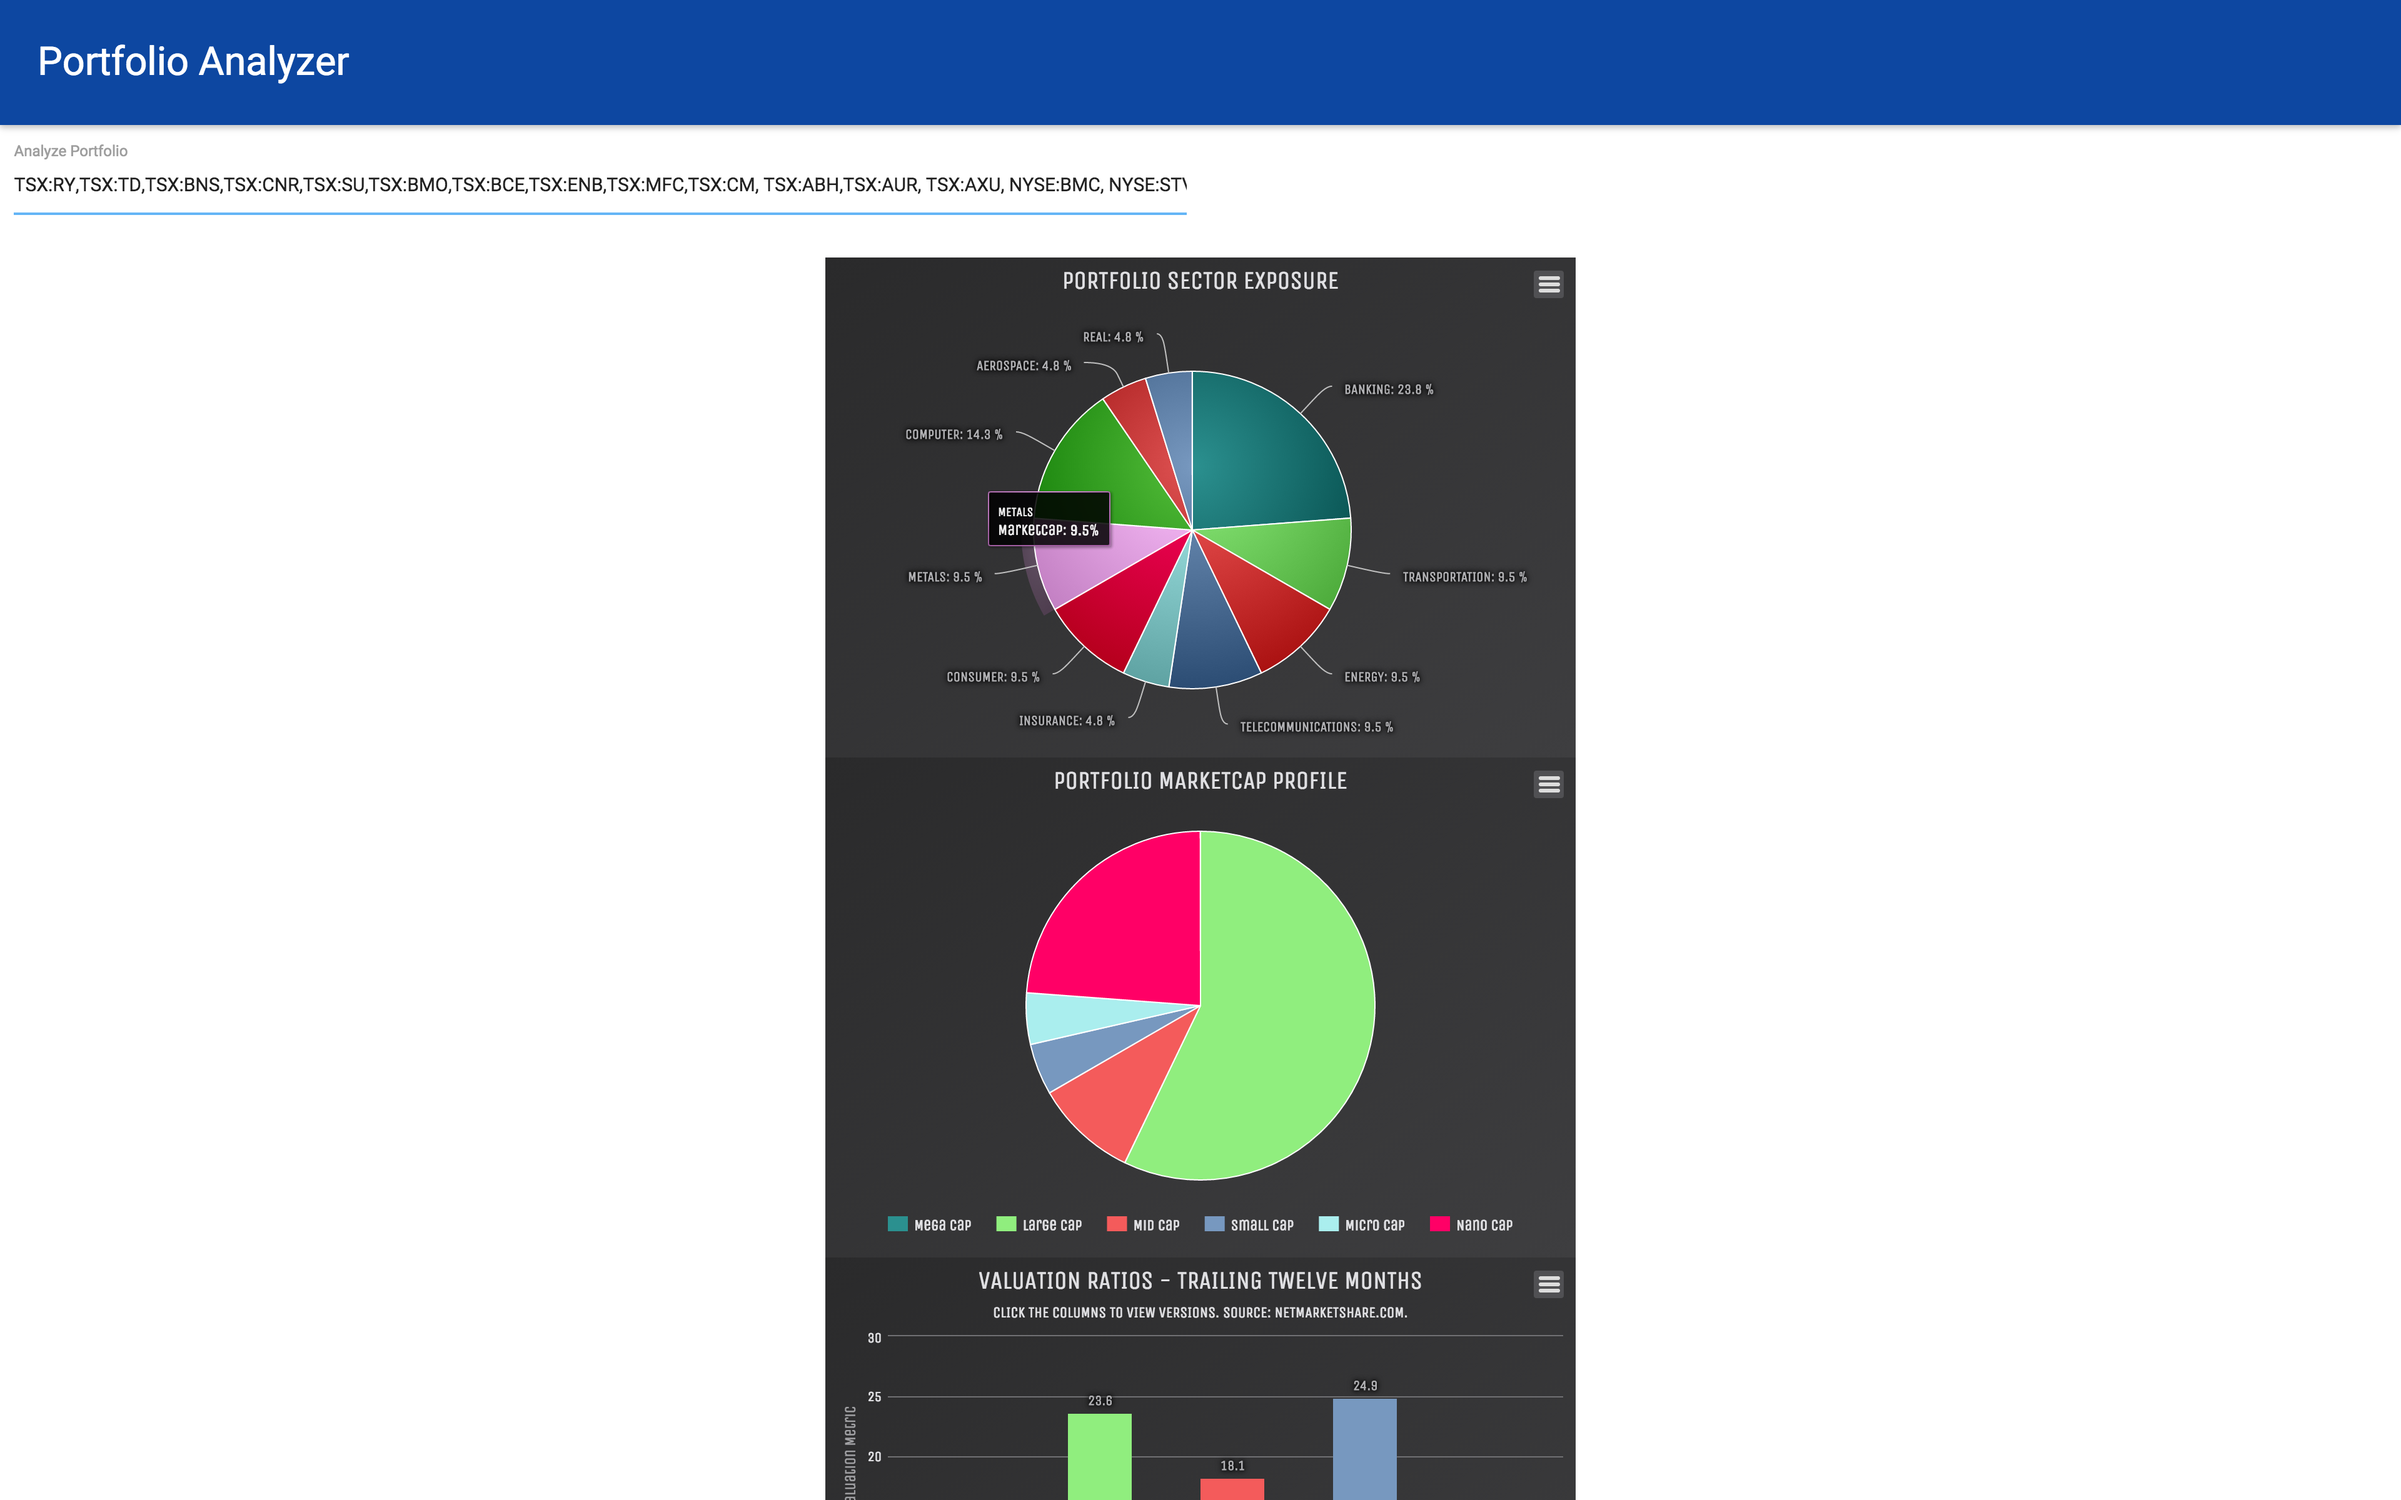
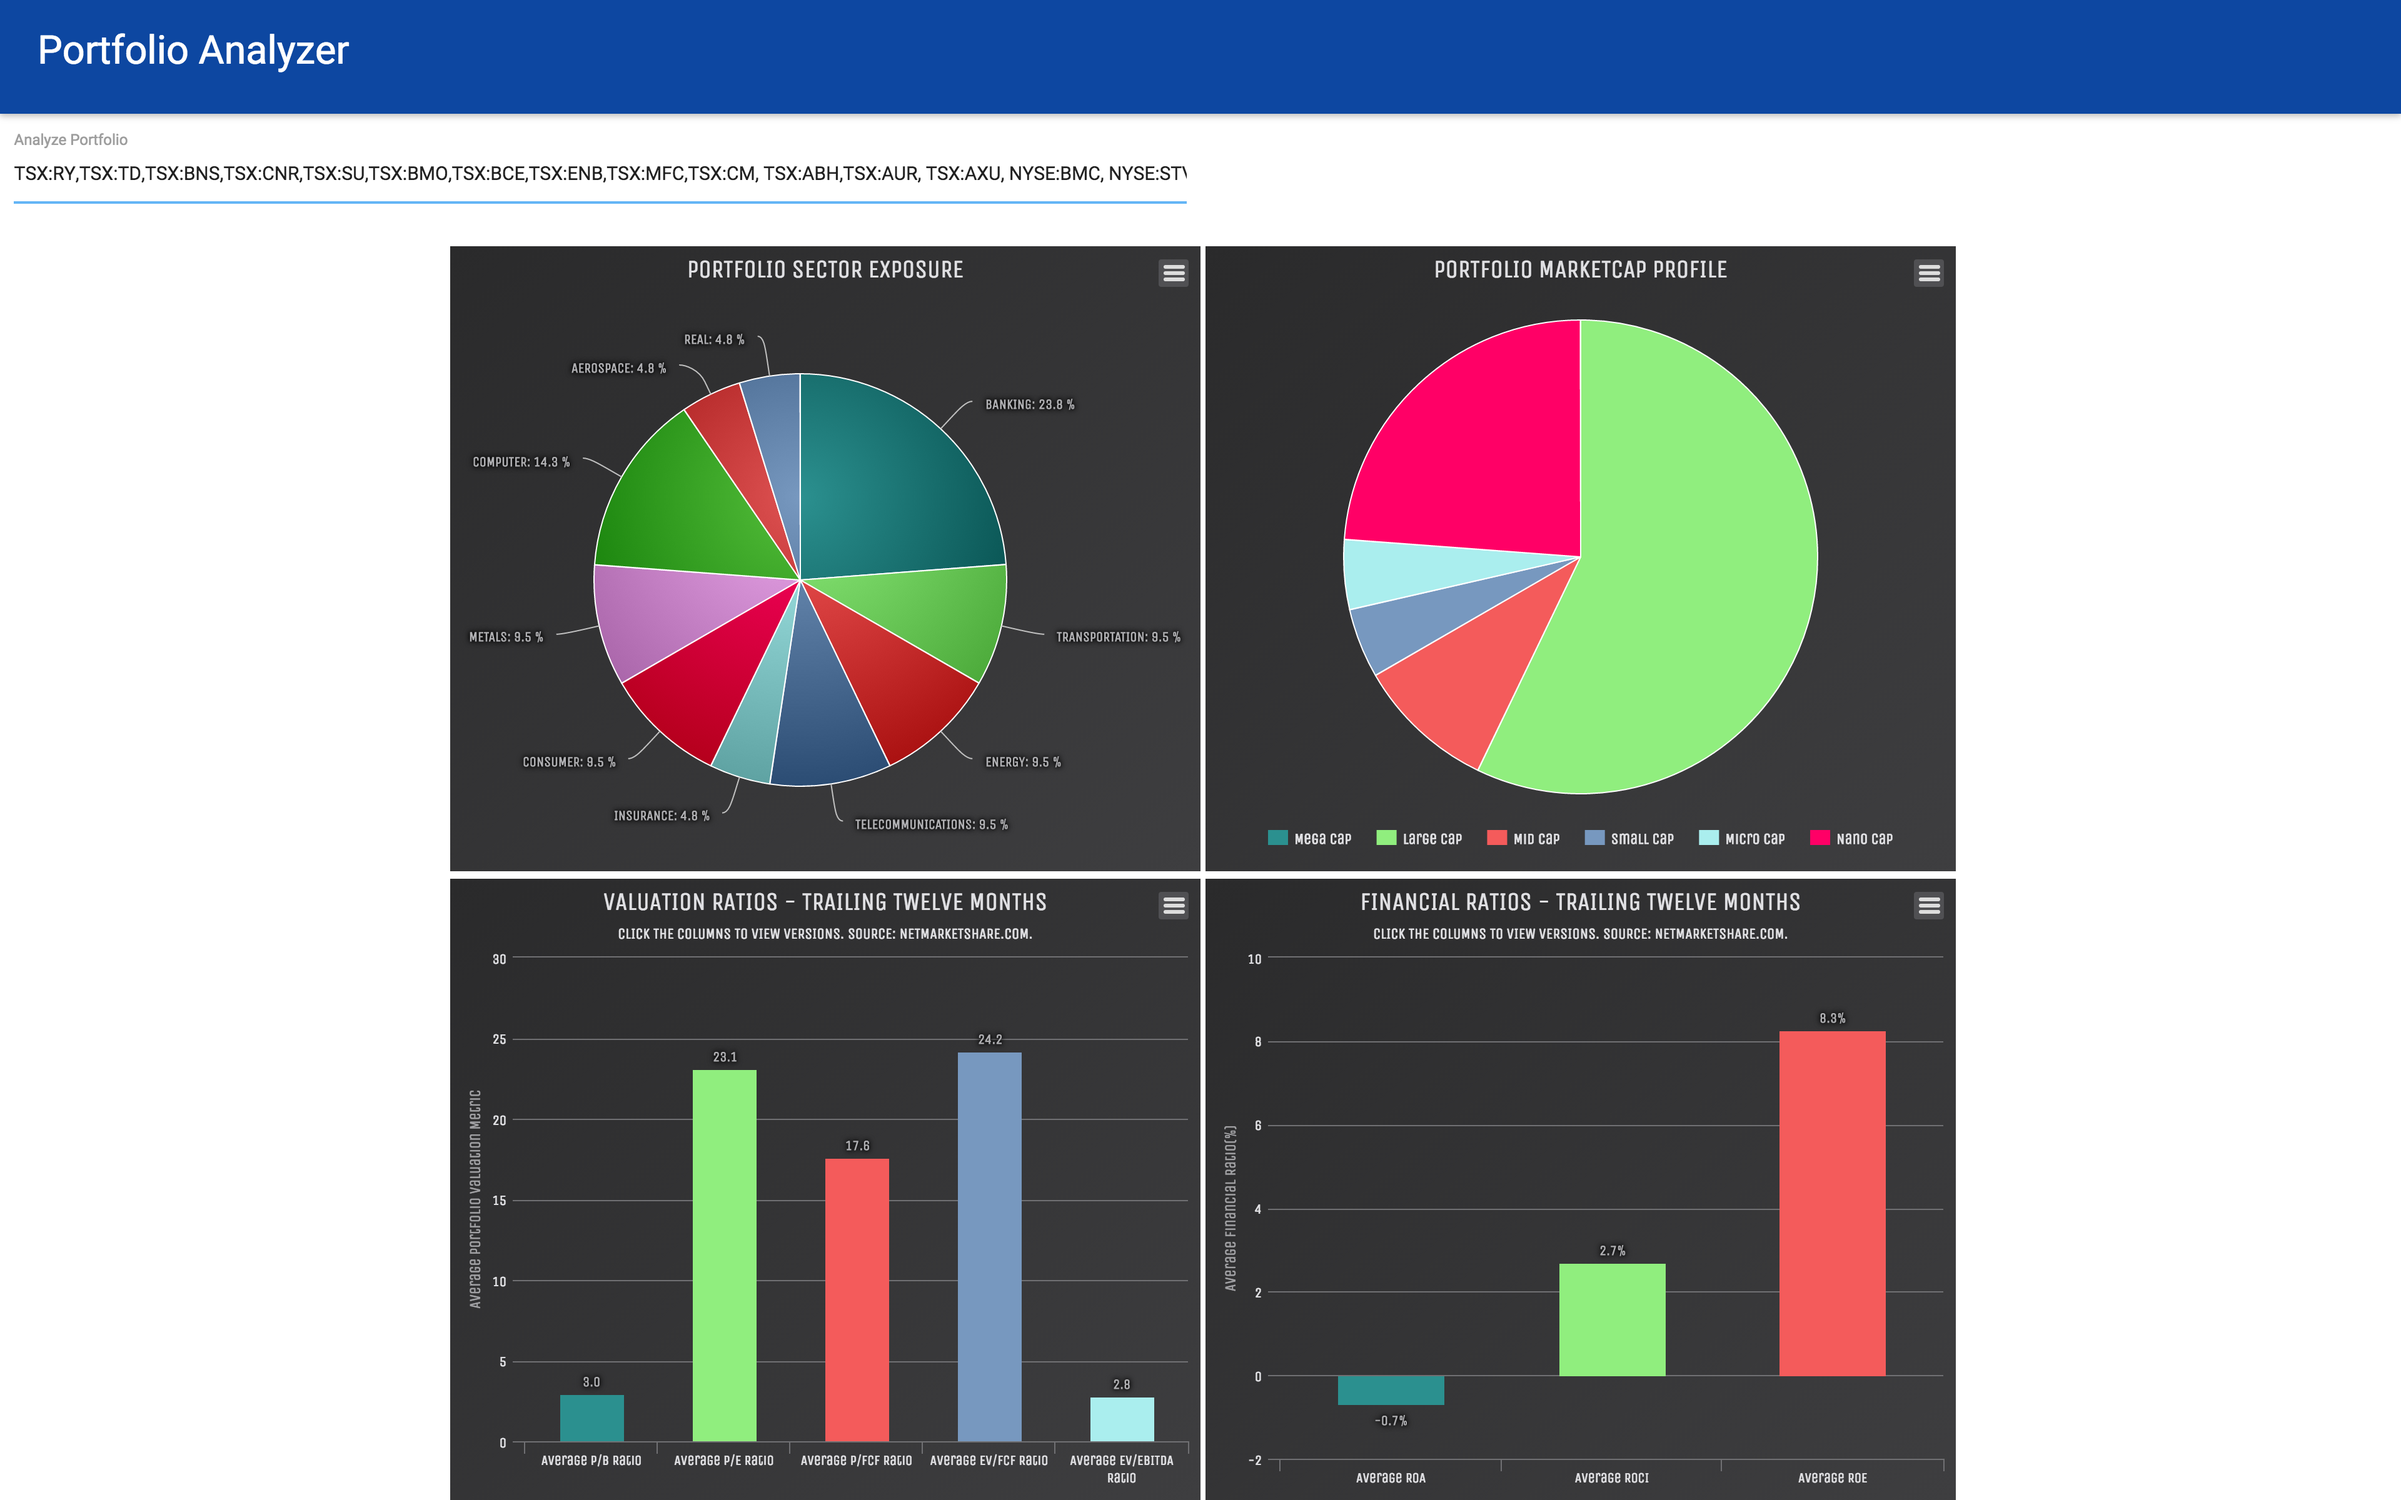
Replaced portfolio with new pictures and made portfolio row columns equal width

diff --git a/_includes/portfolio.html b/_includes/portfolio.html
@@ -1,15 +1,18 @@
 <section class="portfolio">
   <h3>Portfolio</h3>
-  <table class="table">
-    <tr>
-      <td>
-        <img src="core.png">
-      </td>
-      <td>
-        <img src="Portfolio_Builder.png">
-      </td>
-      <td>
-        <img src="foodmap.png">
-      </td>
-  </table>
+  <div class="table-responsive">
+    <table class="table">
+      <tr>
+        <td>
+          <img src="core.png">
+        </td>
+        <td>
+          <img src="portfolio_builder.png">
+        </td>
+        <td>
+          <img src="foodmap.png">
+        </td>
+      </tr>
+    </table>
+  </tr>
 </section>

diff --git a/css/index.css b/css/index.css
@@ -99,11 +99,21 @@ h3 {
 /* Styling for portfolio section*/
 .portfolio {
   background: #070A0F;
-  color:white;
+  color: white;
   padding-left: 10%;
   padding-right: 10%;
 }
 
-.portfolio img {
-  margin-top: 3%;
+.table {
+  margin-top: 2%;
 }
+
+.table td {
+  border-top: none !important;
+  width: 33%;
+  height: 100%;
+}
+
+/*td img {
+  height: 307.5px;
+}*/
